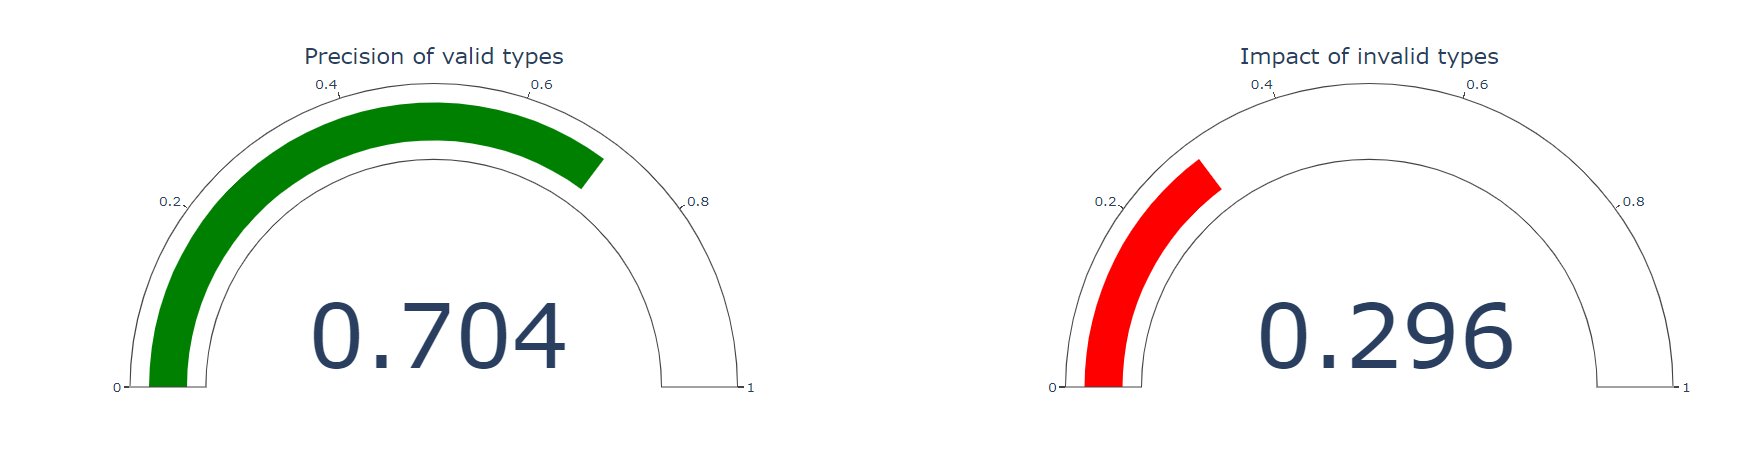
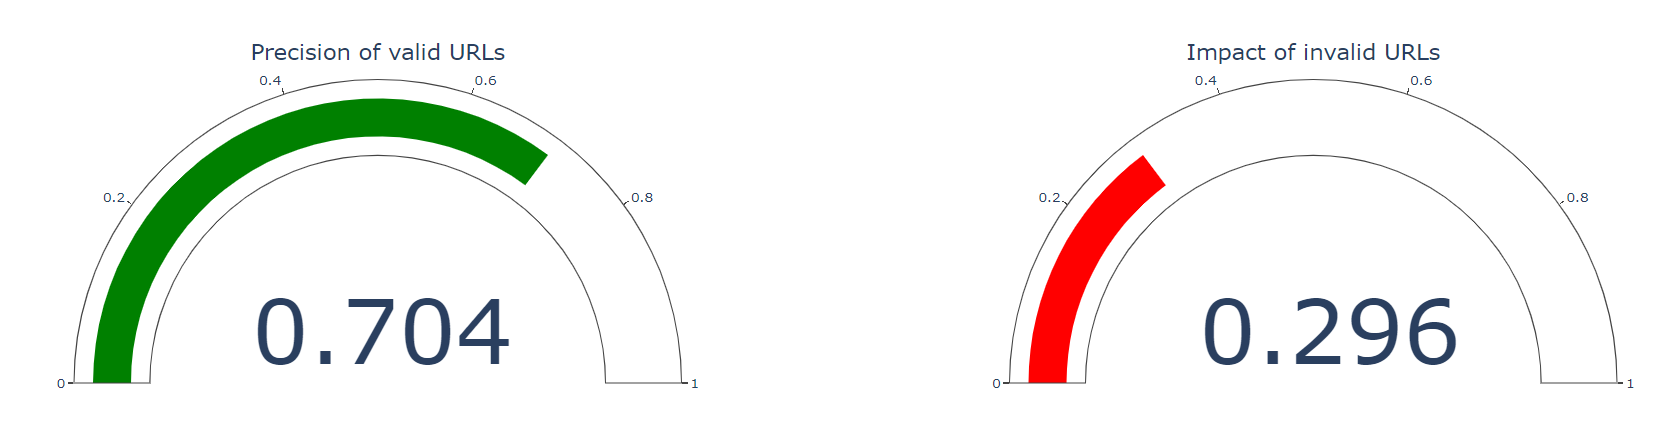
Title correction

diff --git a/figures.py b/figures.py
@@ -15,7 +15,7 @@ def get_language_statistics_figure(language_directory):
     go.Indicator(
     mode = "gauge+number",
     value = float(stats[0]),
-    title = {'text': "Precision of valid types"},
+    title = {'text': "Precision of valid URLs"},
     domain = {'x': [0, 1], 'y': [0, 1]},
     gauge = {'axis': {'range': [0, 1]}}
 ),
@@ -26,7 +26,7 @@ def get_language_statistics_figure(language_directory):
     go.Indicator(
     mode = "gauge+number",
     value = float(stats[1]),
-    title = {'text': "Impact of invalid types"},
+    title = {'text': "Impact of invalid URLs"},
     domain = {'x': [0, 1], 'y': [0, 1]},
     gauge = {'axis': {'range': [0, 1]}, 'bar': {'color': "red"}}
 ),

diff --git a/dashboard.py b/dashboard.py
@@ -73,7 +73,7 @@ def update_metrics(value):
     go.Indicator(
     mode = "gauge+number",
     value = float(R.es_stats[0]),
-    title = {'text': "Precision of Spanish valid types"},
+    title = {'text': "Precision of Spanish valid URLs"},
     domain = {'x': [0, 1], 'y': [0, 1]},
     gauge = {'axis': {'range': [0, 1]}}
 ),
@@ -83,7 +83,7 @@ def update_metrics(value):
     go.Indicator(
     mode = "gauge+number",
     value = float(R.en_stats[0]),
-    title = {'text': "Precision of English valid types"},
+    title = {'text': "Precision of English valid URLs"},
     domain = {'x': [0, 1], 'y': [0, 1]},
     gauge = {'axis': {'range': [0, 1]}}
 ),
